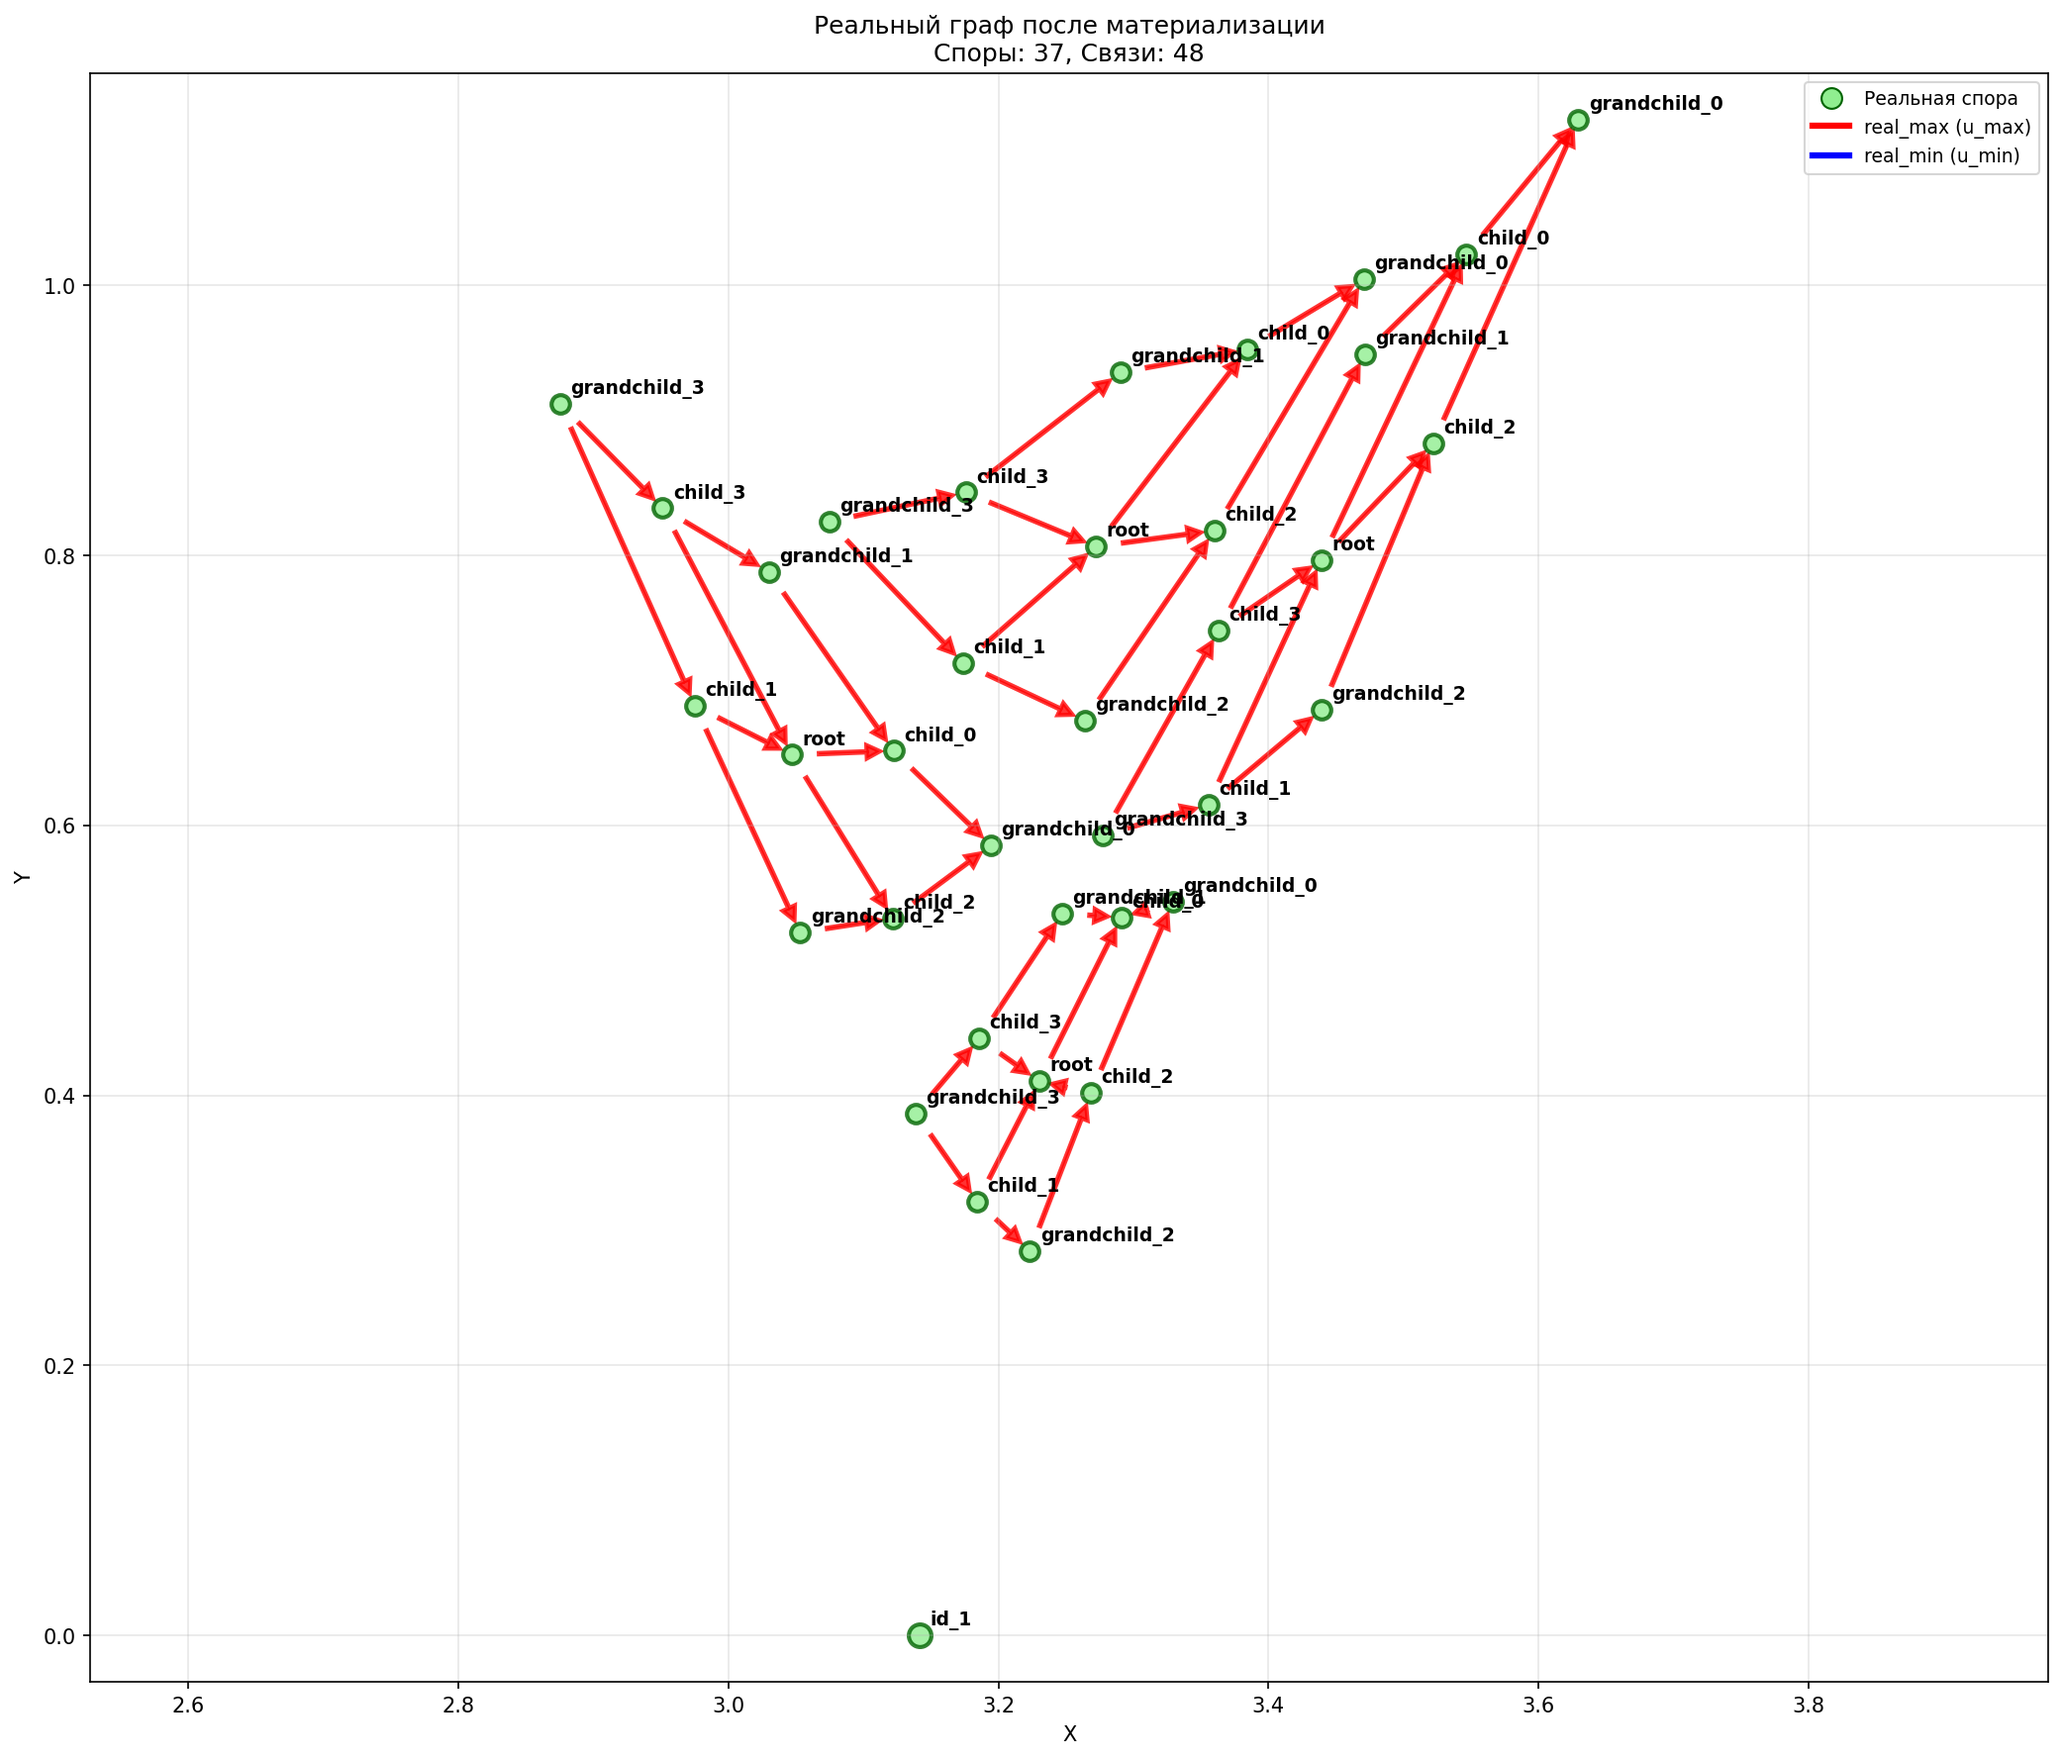
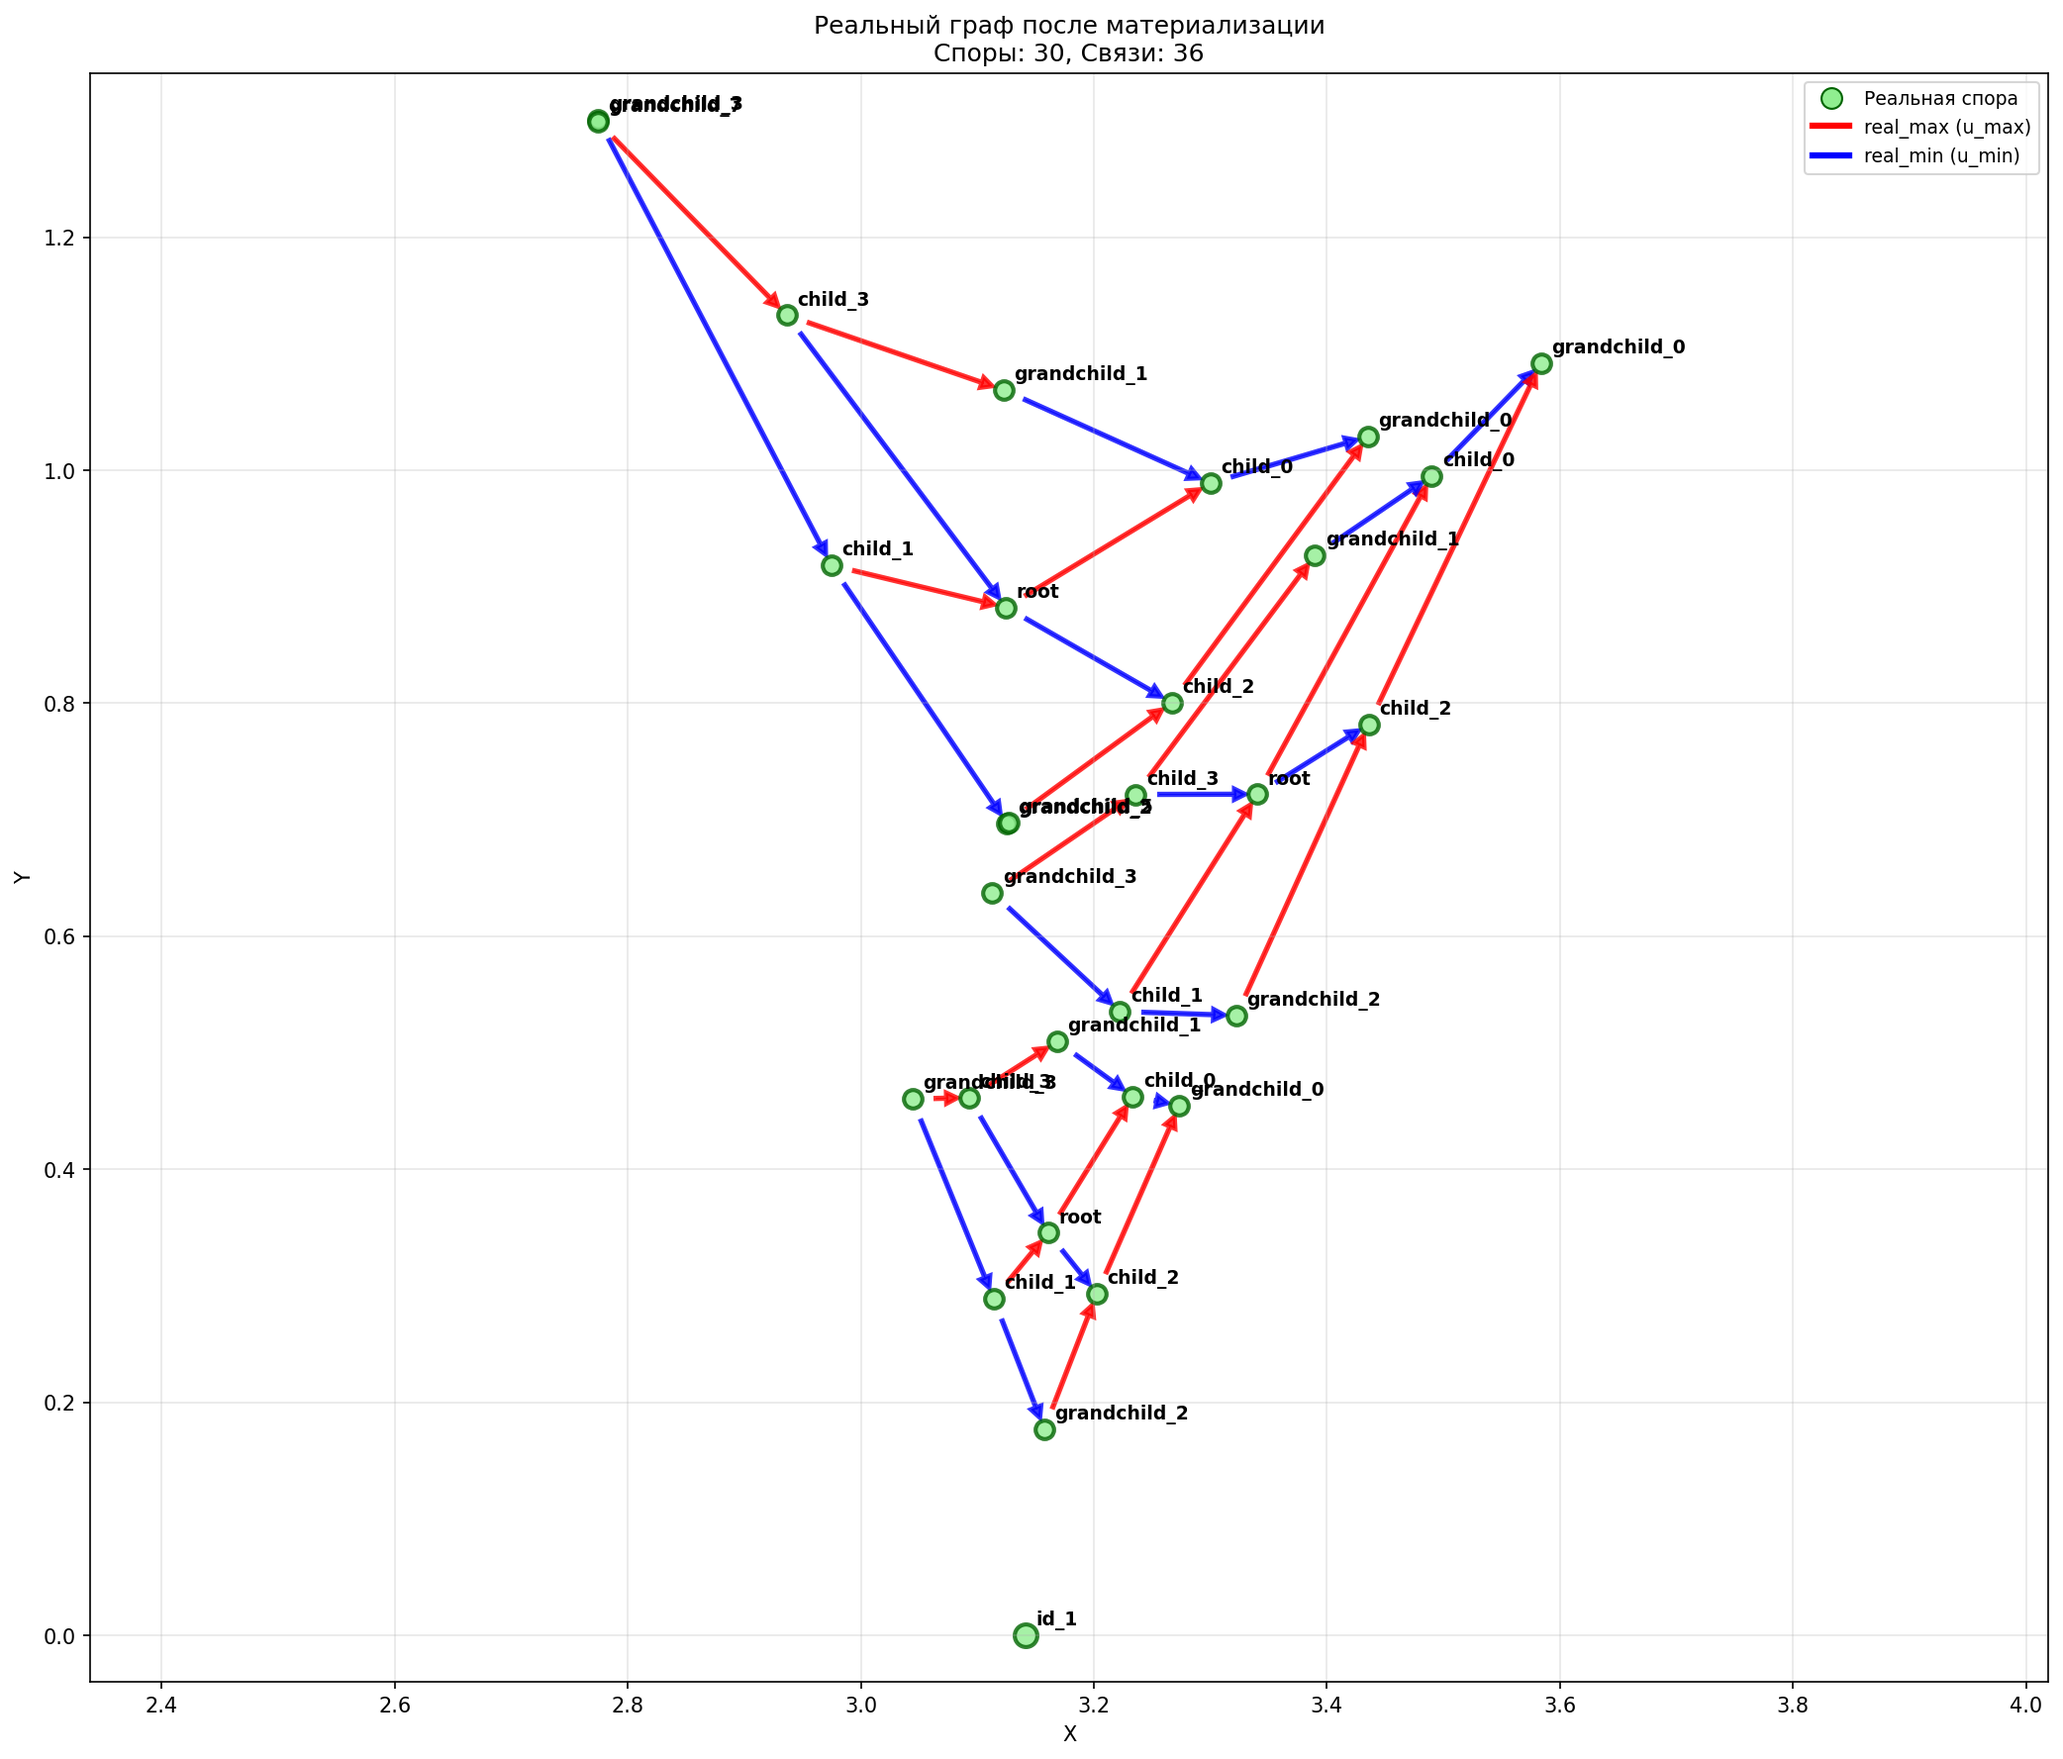
линки правильного цвета на пнг реального графа

diff --git a/spores/v16_picker/src/managers/buffer_merge_manager.py b/spores/v16_picker/src/managers/buffer_merge_manager.py
@@ -1100,7 +1100,7 @@ class BufferMergeManager:
             real_links = spore_manager.links
             
             # 1. Рисуем связи первыми
-            self._draw_real_links(ax, real_links)
+            self._draw_real_links(ax, real_links, spore_manager)
             
             # 2. Рисуем споры поверх
             self._draw_real_spores(ax, real_spores)
@@ -1155,12 +1155,9 @@ class BufferMergeManager:
                            xytext=(5, 5), textcoords='offset points',
                            fontsize=9, ha='left', weight='bold')
 
-    def _draw_real_links(self, ax, real_links):
+    def _draw_real_links(self, ax, real_links, spore_manager):
         """Рисует реальные связи."""
-        # Получаем ссылку на spore_manager для доступа к графу
-        spore_manager = getattr(self, '_spore_manager_ref', None)
-        if spore_manager:
-            self.spore_manager = spore_manager
+        # spore_manager передается как параметр
         # Цвета для разных типов связей
         link_colors = {
             'real_max': 'red',      # u_max - красный
@@ -1186,10 +1183,10 @@ class BufferMergeManager:
                     if parent_id and child_id:
                         # Пытаемся найти связь в обоих направлениях (граф может быть направленным)
                         edge_info = None
-                        if hasattr(self, 'spore_manager') and hasattr(self.spore_manager, 'graph'):
-                            edge_info = self.spore_manager.graph.get_edge_info(parent_id, child_id)
+                        if spore_manager and hasattr(spore_manager, 'graph'):
+                            edge_info = spore_manager.graph.get_edge_info(parent_id, child_id)
                             if not edge_info:
-                                edge_info = self.spore_manager.graph.get_edge_info(child_id, parent_id)
+                                edge_info = spore_manager.graph.get_edge_info(child_id, parent_id)
                         
                         if edge_info and hasattr(edge_info, 'link_type'):
                             link_type = edge_info.link_type
